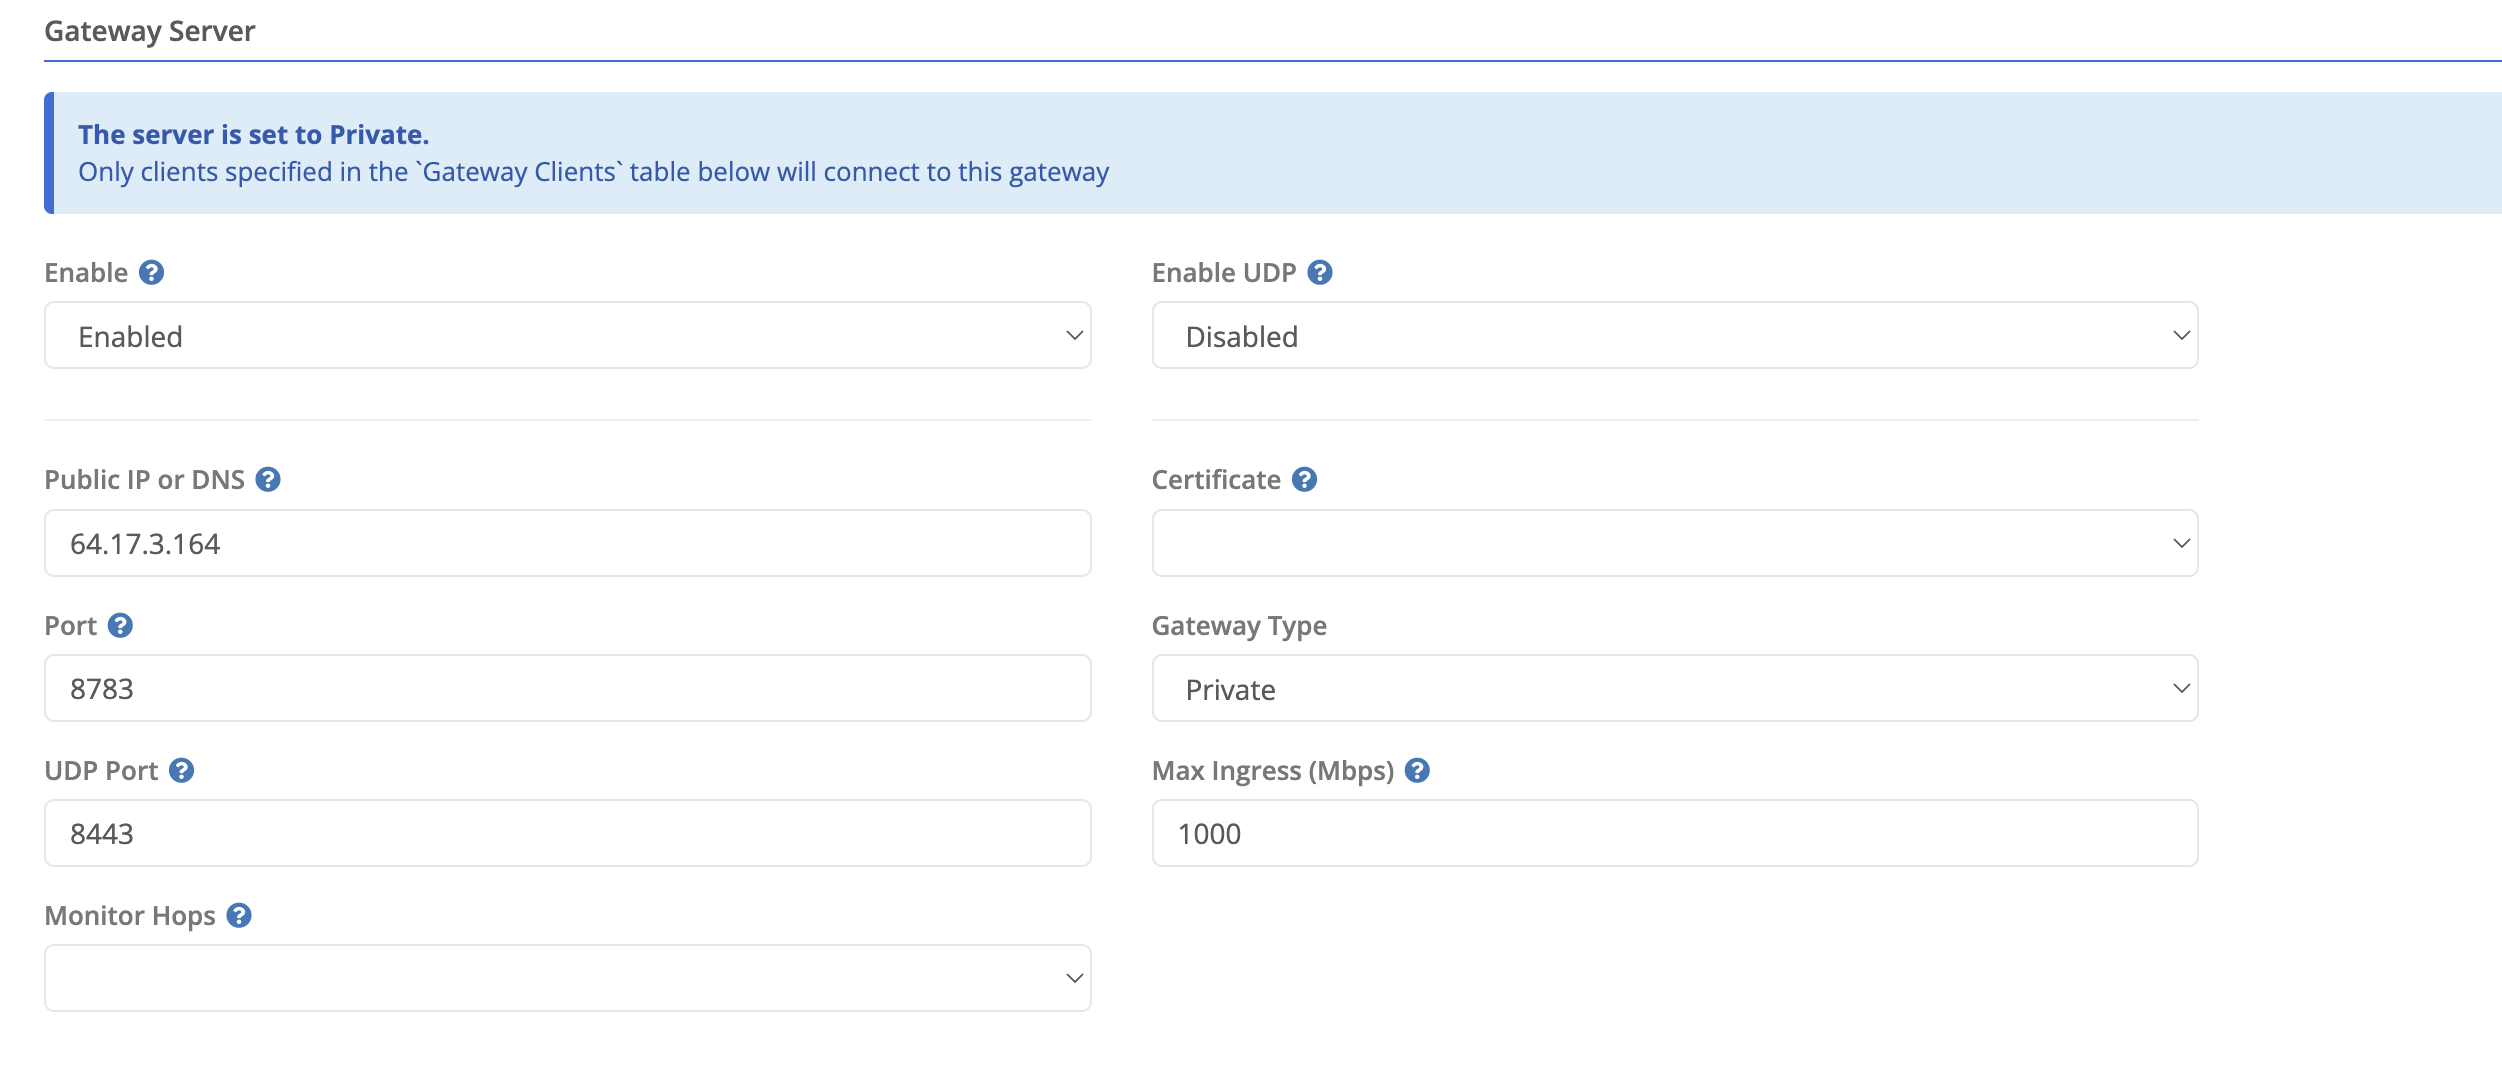
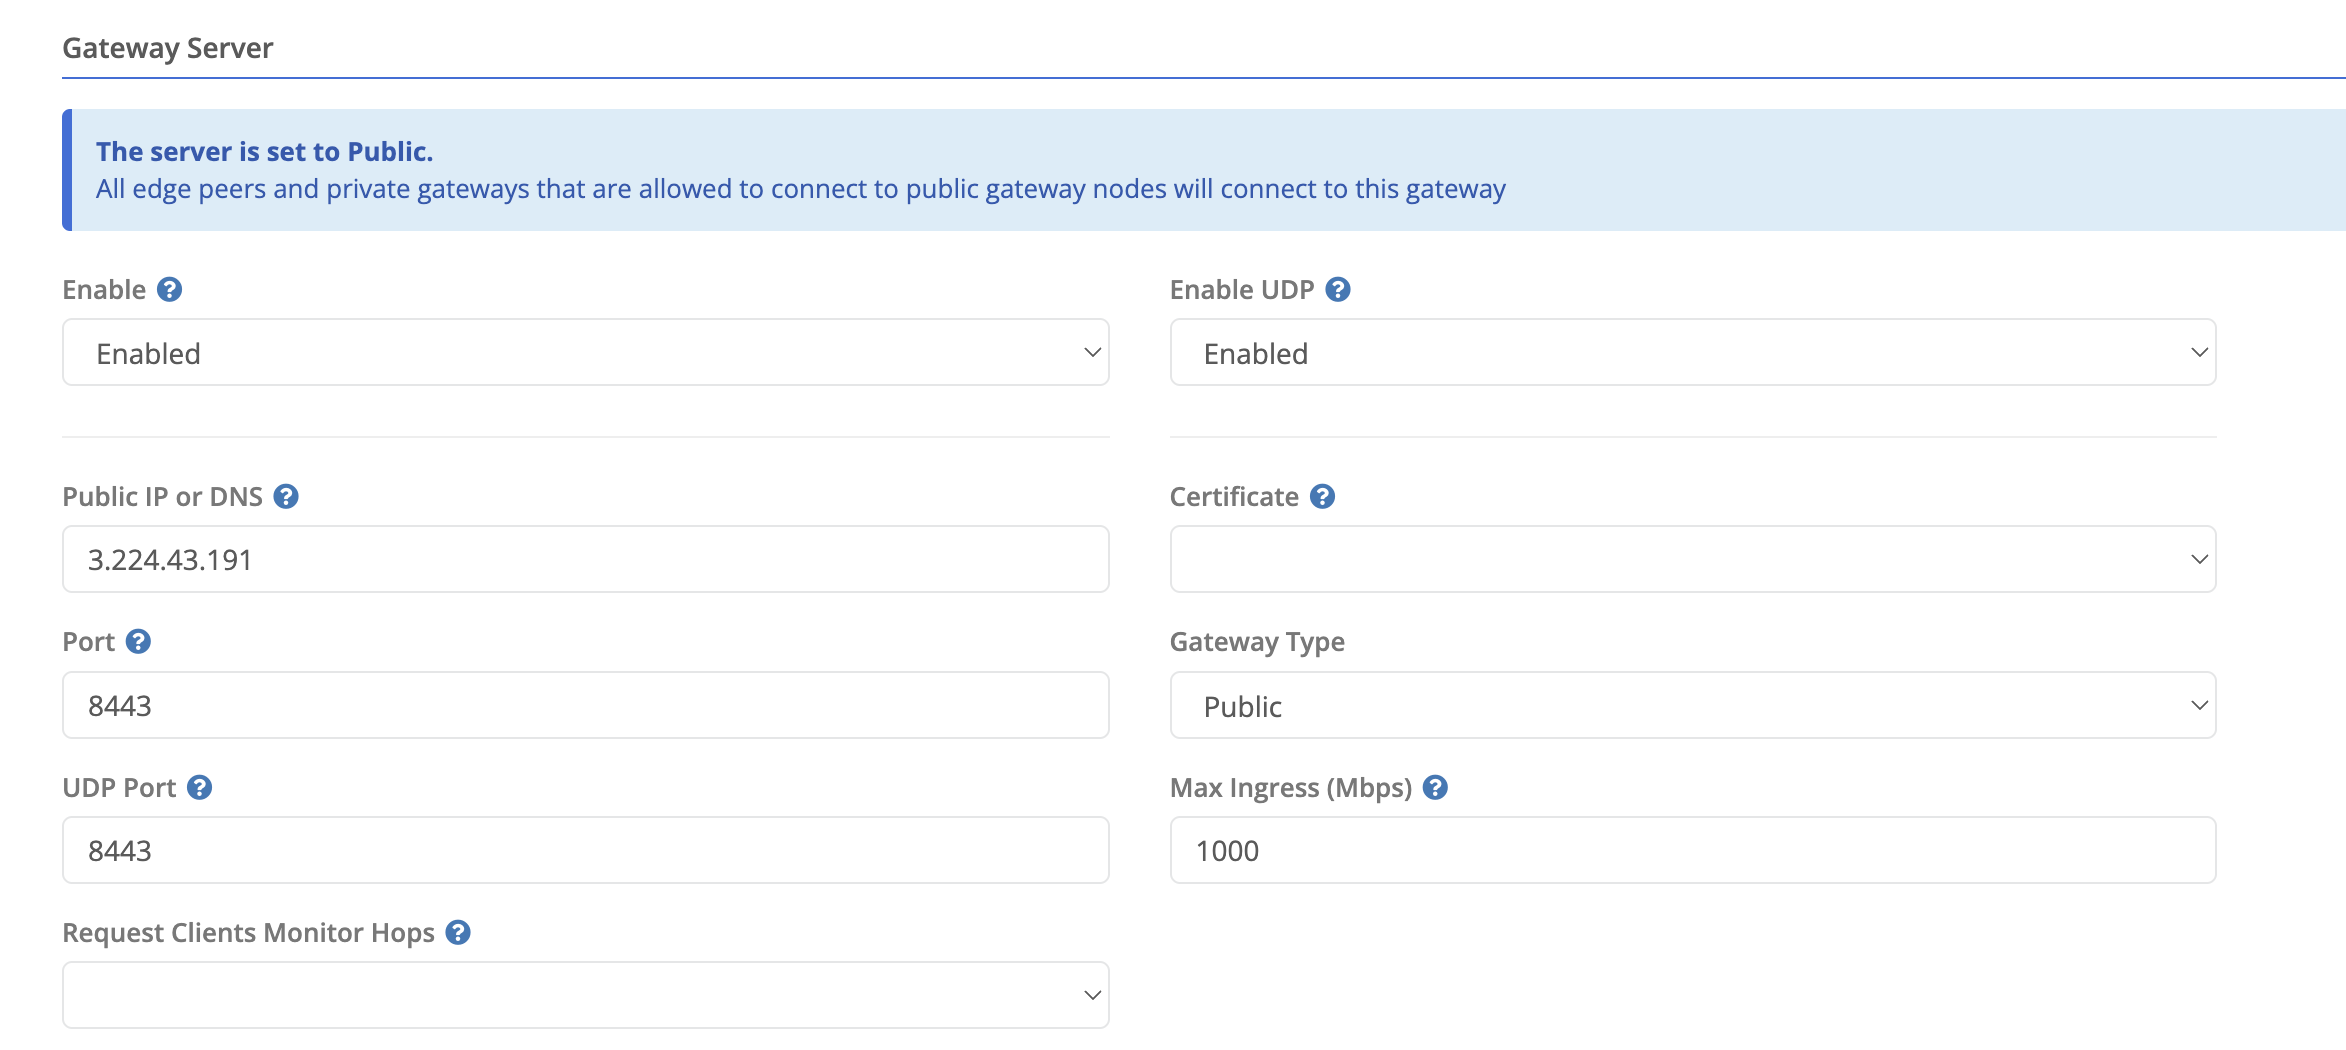
c5273 and n2220 release notes

diff --git a/content/en/release-notes/node/2025-04/index.md b/content/en/release-notes/node/2025-04/index.md
@@ -1,0 +1,45 @@
+---
+title: April 2025 Major Appliance Release Notes
+linkTitle: April 2025 Major
+type: docs
+date: 2025-04-21
+description: "Release notes for the April 2025 Major Trustgrid Appliance release"
+---
+{{< node-release package-version="1.5.20250415-2266" core-version="20250415-213243.4a224c3" release="n-2.22.0" >}}
+
+## Hop Monitoring Improvements
+This release makes some significant improvements to Hop Monitoring.  Previously the Hop Monitoring ran every 20 seconds providing only 3 samples per minute.  This was not enough to provide accurate data for some applications.  This release increases the sample rate to every 5 seconds.  This allows the Hop Monitoring to provide accurate data for applications that require a high sample rate.  
+
+Additionally, the Hop Monitoring by default will attempt to send data payload in the SYN packets equal the 1440 bytes or the MTU of the WAN interface minus 60 byte.  The goal is to detect hops in the path with smaller than standard MTU that can lead to retransmissions and performance problems.  It is important to not that this check only runs in a single direction, from the edge node to the gateway node. As edge nodes do not listen a check in the other direction is not possible.
+
+Finally, this release adds the ability for a gateway to request hop monitoring from all it's connected edge nodes.  This can make it easier to enable hop monitoring throughout an organization without having to enable it on each edge node individually.  As part of this change we have also changed the hop monitoring settings on the client page from disabled/enabled to:
+- Always - This is equivalent to the previous enabled setting.  The node will attempt hop monitoring to all its connected gateways.
+- Only when peer requests - This is the default setting.  The node will attempt hop monitoring to any gateway configured to request it. 
+- Never - This is equivalent to the previous disabled setting.  The node will not attempt hop monitoring to any gateway, event if it is configured to request it.
+
+## Cluster Improvements
+### Cluster Communication Fixes
+This release makes a number of changes to address issues with cluster communication.  These changes include:
+- Azure Cluster IP addresses could end up in a state where neither member could set the IP configuration. Additionally any issue configuring the cluster IP logged every minute.  This release fixes both of these issues.
+- Configuring a cluster IP on non-Azure appliances required a restart to be effective. This release fixes this issue.
+- Nodes stuck in a dual active or flapping state could see direct memory (outside the JVM allocation) usage increase.  This release fixes this issue.
+- Multiple race conditions that could lead to dual-active or no-active member clusters have been addressed. 
+
+### Stateful Failover Beta 
+Trustgrid is working to make upgrades of clustered nodes less disruptive. This release includes a beta feature that synchronizes VPN flows between nodes in the cluster. During a graceful failover, this can allow existing connections to continue to function without interruption.  This feature is disabled by default but can be enabled by contacting Trustgrid support.
+
+## BGP Improvements
+This release adds two new [event types]({{<relref "/docs/alarms/event-types">}}) for BGP connectivity under the category `BGP Peer Connectivity` that will be sent when a BGP disconnects or reconnects. It also rate limits the number of debug log entries when a BGP peer is disconnected. 
+
+## Gateway Path Improvements
+Prior to this release, the Control & Data Plane Health check did not include additional [gateway paths]({{<relref "docs/nodes/appliances/gateway/gateway-client#gateway-paths">}}) in determining the health of a cluster member. This could potentially lead to a failover when the node still had a healthy data plane path. This release fixes this issue by including all gateway paths in the health check.
+
+## Other Improvements and Fixes
+- Port Forwards were not adjusting the MSS value correctly when one side had larger than normal MTU, like AWS members.  This release fixes this issue.
+- Fixes an issue where a disabled node could take up to 24 hours to re-enable if the first attempts to pull the updated configuration failed. Disabled nodes will now check every 10 minutes. 
+- The node will now attempt to pull the configuration twice before sending the `Configuration Update Failure` event type.
+- Fixes an issue causing Azure nodes to report startup errors. 
+- Fixes an issue causing the CPU and memory usage stats to be incorrect.
+- Update the APT security packages to those available on 2025-02-24.
+- The Data Plane panels now accurately reports the UDP tunnel status. 
+- Fixes an issue that could leave a process started in a terminal running after the terminal is closed.

diff --git a/content/en/docs/nodes/appliances/gateway/gateway-client/index.md b/content/en/docs/nodes/appliances/gateway/gateway-client/index.md
@@ -11,9 +11,9 @@ description: Configure client settings
 Settings on this page determine how a node's client connection to gateway peers behave.
 
 ## Settings
-
+{{<tgimg src="gateway-client-settings.png" width="85%" caption="Gateway Client settings" alt="screenshot of gateway client settings">}}
 {{<fields>}}
-{{<field "UDP Enabled" >}}
+{{<field "Enable UDP" >}}
 This settings can be configured on both the [gateway server](../gateway-server) and [gateway client](../gateway-client) sub-panel.
 
 - On a server, this will determine if the server will listen for UDP tunnel connections on the configured [UDP port](#udp-port).
@@ -25,15 +25,32 @@ This settings can be configured on both the [gateway server](../gateway-server) 
 {{<field "Max Egress Mbps" >}}
 The egress bandwidth limit for the gateway. Connections will be throttled when this limit is reached.
 {{</field >}}
-{{<field "Monitor Network Hops to Peers" >}}
-Whether to [monitor latency to peers]({{<relref "/tutorials/gateway-tools/monitoring-network-hops-to-peers">}}) through this gateway. This can have a performance impact and is not recommended for high-traffic gateways.
-{{</field >}}
 {{<field "Connectivity to Public Gateways">}}
 Options are `Allowed` or `Denied`. If set to `Denied` this will cause the node to not attempt connections to public gateways. This might be desired if you want the node to only connect to configured private gateways. Or if you have private gateways that do not need to connect to the public gateways in your organization.
 {{</field>}}
 {{</fields>}}
 
-{{<tgimg src="gateway-client-settings.png" width="85%" caption="Gateway Client settings" alt="screenshot of gateway client settings">}}
+
+
+## Hop Monitoring Settings
+{{<tgimg src="gateway-hop-monitor-settings.png" width="85%" caption="Gateway Hop Monitoring settings" alt="screenshot of gateway client hop monitor settings">}}
+{{<alert color="info">}} The settings below require the node to be running the [April 2025 major appliance release]({{<ref "/release-notes/node/2025-04/index.md">}}) or later. Prior versions only support enabled or disabled.{{</alert>}}
+{{<fields>}}
+{{<field "Monitor Hops to Gateway Servers" >}}
+Determines if the node will attempt to [monitor hops to gateway peers]({{<relref "/tutorials/gateway-tools/monitoring-network-hops-to-peers">}}). The possible values are:
+- **Always** - The node will attempt to monitor hops to all gateway peers.
+- **Only when peer requests** - The node will only attempt to monitor hops to gateway peers that request it. This is the default state.
+- **Never** - The node will never attempt to monitor hops to gateway peers, even if peers request it.
+{{</field>}}
+{{<field "Monitor Hops Interval" >}} The interval time, in seconds, between gathering hop monitoring data.{{</field>}}
+{{<field "Support Monitor Hops Resets" >}} 
+Determines if the node will send reset (RST) packets for the TCP connections it attempts.  Doing so reduces, but does not eliminate the number of resets seen on the WAN interface.
+- **Enabled** - The node will send reset packets. This is the default state.
+- **Disabled** - The node will not send reset packets.
+{{</field>}}
+{{<field "Monitor Hops SYN Payload Size" >}} Detemines the size of the TCP SYN payload sent. By default the payload is the smaller of 1440 or the WAN MTU minus 60 bytes. Can be set between 0 and 1440. {{</field>}}
+{{</fields>}}
+
 
 ## Gateway Paths
 

diff --git a/content/en/tutorials/gateway-tools/monitoring-network-hops-to-peers/index.md b/content/en/tutorials/gateway-tools/monitoring-network-hops-to-peers/index.md
@@ -7,11 +7,11 @@ date: 2023-2-7
 This feature collects traceroute-like data from all its connected peers and stores the results in the Trustgrid cloud for historical review.  
 {{% /pageinfo %}}
 
-{{< alert color="info" >}}Network hop monitoring requires version 20220808 or newer to gather the required data.{{</ alert >}}
+{{< alert color="info" >}}Network hop monitoring as described below requires the [April 2025 major appliance release]({{<ref "/release-notes/node/2025-04/index.md">}}) or later. Versions from 20220808 until that version had no payload and were sent every 20 seconds{{</ alert >}}
 
 ## How it Works
 
-1. The node will send out packets to each peer's public IP and port (if a gateway) with incrementing Time To Live (TTL) values.
+1. The node will send out TCP SYN packets to each peer's public IP and port (if a gateway) with incrementing Time To Live (TTL) values every 5 seconds.  The packets have a payload of 1440 bytes (or the smaller of 1440 or the WAN MTU minus 60 bytes) to attempt to spot any MTU issues. 
 1. As the packets pass through each router (or hop) along the way the TTL is decreased by one.
 1. Any time a router receives a packet with a TTL value of 1 it will drop the packet and can reply with an ICMP packet saying “Time to Live has been exceeded”
 1. The node uses these ICMP packets to calculate the latency to each hop.
@@ -29,14 +29,22 @@ There are several known limitations to gathering this data:
 - - Some firewalls/routers have trouble correlating the TCP request with the ICMP response which leads to no data
 - Gathering this data requires compute resources on the node and the gateway. Trustgrid recommends only enabling on edge nodes that have frequent latency or packet loss issues as a troubleshooting tool.
 
-{{<alert color="warning">}}It is not recommended to enable this feature on public gateways or private gateways with a large number of clients{{</alert>}}
-
 ## Enabling Network Hop Monitoring
+There are two ways to enable hop monitoring:
 
+### Enable on a Specific Edge Node
+This method will configure the node in question to attempt hop monitoring to all connected gateway peers. 
 1. Navigate to the node you want to enable
-1. Verify there version is 20220808 or higher {{<tgimg src="version-check.png" width="70%" caption="Infovisor showing version information">}}
 1. In the left side navigation bar select **Gateway** under the **System** section. Then click the **Client** panel. {{<tgimg src="gateway-client.png" width="50%" caption="Navigating to the client panel">}}
-1. Enable **Monitor Network Hops to Peers** and click **Save** {{<tgimg src="enable-monitor-hops.png" width="70%" caption="Enabling network hop monitoring">}}
+1. Set the **Monitor Hops to Gateway Servers** to **Always**. 
+1. Click **Save**
+
+## Enable on a Gateway Node
+This method will tell all connected peers running the correct version of the node software to attempt hop monitoring to this specific gateway. 
+1. Navigate to the gateway node you want to enable.
+1. In the left side navigation bar select **Gateway** under the **System** section. Then click the **Server** panel. {{<tgimg src="gateway-server-panel.png" width="50%" caption="Navigating to the server panel">}}
+1. Set **Request Clients Monitor Hops** to Enabled.
+1. Click **Save**
 
 ## Special Considerations
 

diff --git a/content/en/docs/nodes/appliances/gateway/gateway-server/index.md b/content/en/docs/nodes/appliances/gateway/gateway-server/index.md
@@ -21,7 +21,7 @@ A gateway server can be one of three types:
 - `hub` - allows connections from edge nodes and other gateway nodes
 
 ## Settings
-
+ {{<tgimg src="gateway-server.png" caption="Example Gateway Server settings" width="90%">}}
 {{<fields>}}
 {{<field "Enabled" >}}
 Either `Enabled` or `Disabled`. This determines if the main TLS Gateway server will be started or not. When enabled, the node will listen and accept connections from other nodes on the [Public IP and DNS](#public-ip-or-dns) and [port](#port).
@@ -62,15 +62,15 @@ The ingress bandwidth limit for the gateway. Connections will be throttled when 
 The type of gateway. See [Gateway Types](#gateway-server-types) for more information.
 {{</field >}}
 
-
+{{<field "Request Clients Monitor Hops">}}
+Disabled by default. If enabled, all clients will attempt to [monitor hops]({{<relref "/tutorials/gateway-tools/monitoring-network-hops-to-peers">}}) to the gateway. This feature requires the [April 2025 major appliance release]({{<ref "/release-notes/node/2025-04/index.md">}}) or later to be visible. 
+{{</field >}}
 
 {{</fields>}}
 
 After changing any of the above settings you will need to click Save for the changes to go into effect. 
 
 {{<alert color="warning">}}Enabling and disabling the gateway server will require a restart of the node service which will disrupt all node functionality for a brief period.{{</alert>}}
-
- {{<tgimg src="gateway-server.png" caption="Example Gateway Server settings" width="90%">}}
 
 
  ## Gateway Clients

diff --git a/content/en/docs/alarms/event-types/index.md b/content/en/docs/alarms/event-types/index.md
@@ -8,6 +8,8 @@ Date: 2022-12-28
 | ---------------- | -------- | ------- | ----------- |
 | All Gateways Disconnected  | WARNING  |  | This [event]({{<ref "docs/alarms/events" >}}) will be triggered if an edge node loses connectivity to all it’s available gateways.  |
 | All Peers Disconnected | WARNING  |  | This [event]({{<ref "docs/alarms/events" >}}) will be triggered if a node is configured as a gateway an it lose connectivity to all it’s configured edge nodes.   |
+| BGP Peer Connectivity | ERROR  | BGP peer <peer IP> has disconnected	| This event will be triggered if a BGP peer disconnects.  |
+| BGP Peer Connectivity | INFO  | BGP peer <peer IP> has re-connected	| This event will be triggered if a BGP peer reconnects.  |
 | Certificate Expiring | WARNING  |  | Alerts when a certificate uploaded via Portal → Certificates is about to expire in less than three months.   |
 | Cluster Failover | INFO | [Node]({{<ref "docs/nodes" >}}) is the active [cluster]({{<ref "docs/clusters" >}}) member | Sent by a [node]({{<ref "docs/nodes" >}}) when it claims the active role.    |
 | Cluster Failover | INFO | [Node]({{<ref "docs/nodes" >}}) is no longer the active [cluster]({{<ref "docs/clusters" >}}) member | Sent by a [node]({{<ref "docs/nodes" >}}) when it releases the active role.    |

diff --git a/content/en/release-notes/cloud/2025-04/index.md b/content/en/release-notes/cloud/2025-04/index.md
@@ -1,0 +1,12 @@
+---
+title:  April 2025 Minor Release Notes
+linkTitle:  April 2025 Minor Release 
+date: 2025-04-21
+description: "April 2025 Minor Cloud Release Notes"
+type: docs
+---
+## New Hop Monitoring Options
+This cloud release when combined with the April 2025 major appliance release, adds the following new H[op Monitoring options in the Gateway > Client panel.]({{<relref "docs/nodes/appliances/gateway/gateway-client#hop-monitoring-settings">}})
+
+## Other Improvements and Fixes
+- Fixes an issue preventing setting the cluster heartbeat IP on Google Cloud Platform appliances.
